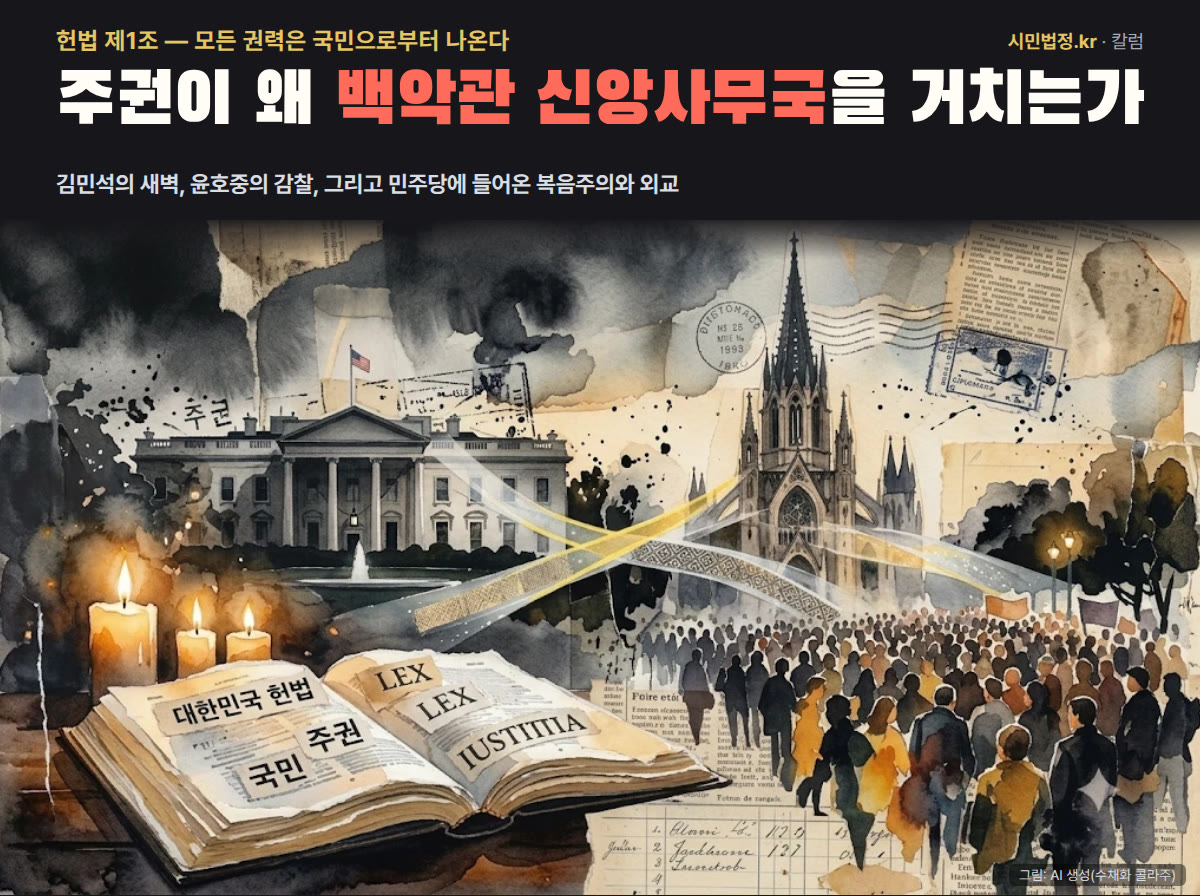
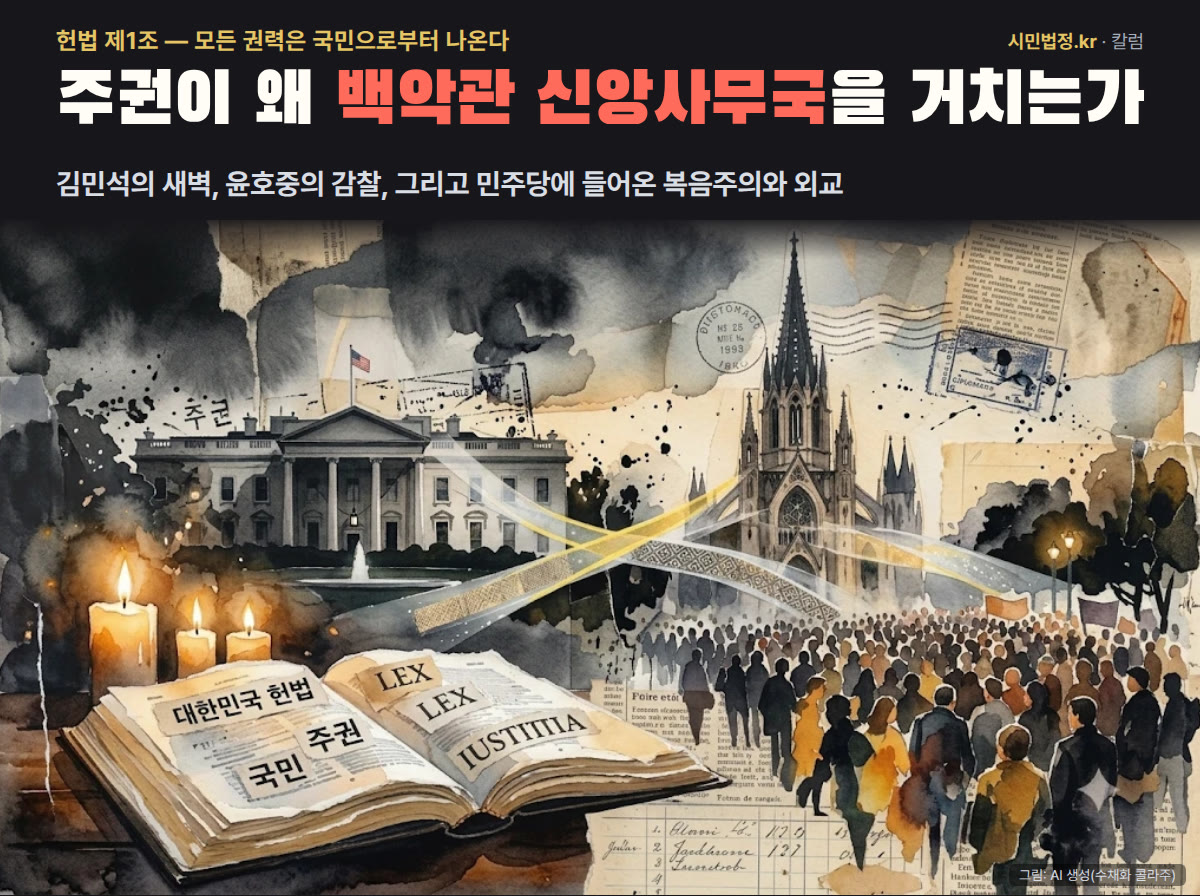
수채화 표지 부제 글자 23→29px (사용자 요청)
Claude-Session: https://claude.ai/code/session_01UVj3aAcuNsSke89L2g4KcQ

Changed region(s): [[0.0308, 0.1875, 0.7092, 0.2188]]

diff --git a/scripts/blog-covers/faith-office-watercolor-20261020.html b/scripts/blog-covers/faith-office-watercolor-20261020.html
@@ -17,7 +17,7 @@ body{background:#17161A;font-family:'Pre',sans-serif;color:#FFFDF6;position:rela
 .brand b{color:#E5C566}
 .title{position:absolute;left:56px;right:56px;top:64px;font-family:'BHS','Pre',sans-serif;font-size:72px;line-height:1.1;letter-spacing:-1px}
 .title em{font-style:normal;color:#FF6B5B}
-.sub{position:absolute;left:56px;right:56px;top:170px;font-size:23px;font-weight:700;color:#D9DDE4;letter-spacing:-.2px}
+.sub{position:absolute;left:56px;right:56px;top:166px;font-size:29px;font-weight:700;color:#D9DDE4;letter-spacing:-.2px}
 .credit{position:absolute;right:14px;bottom:10px;padding:3px 10px;border-radius:6px;background:rgba(0,0,0,.45);font-size:14px;color:#D9DDE4}
 </style></head><body>
 <div class="art"></div>
